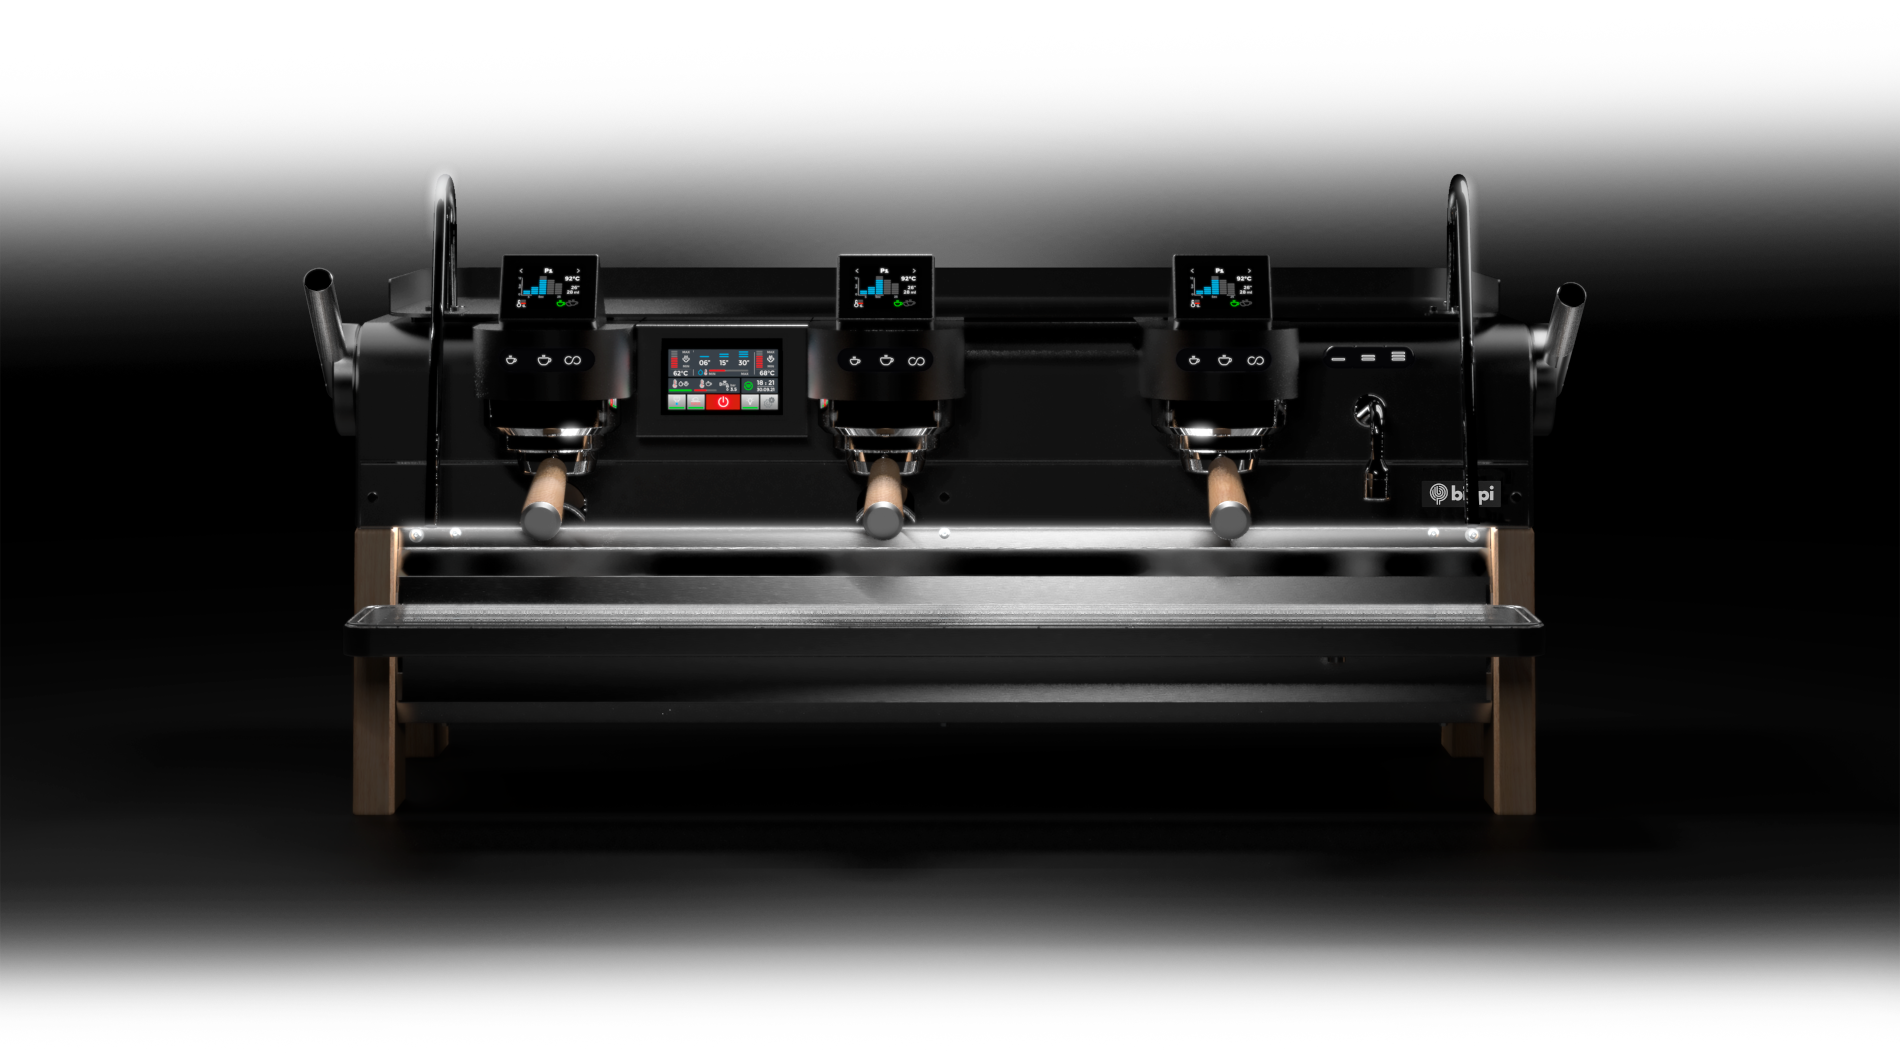
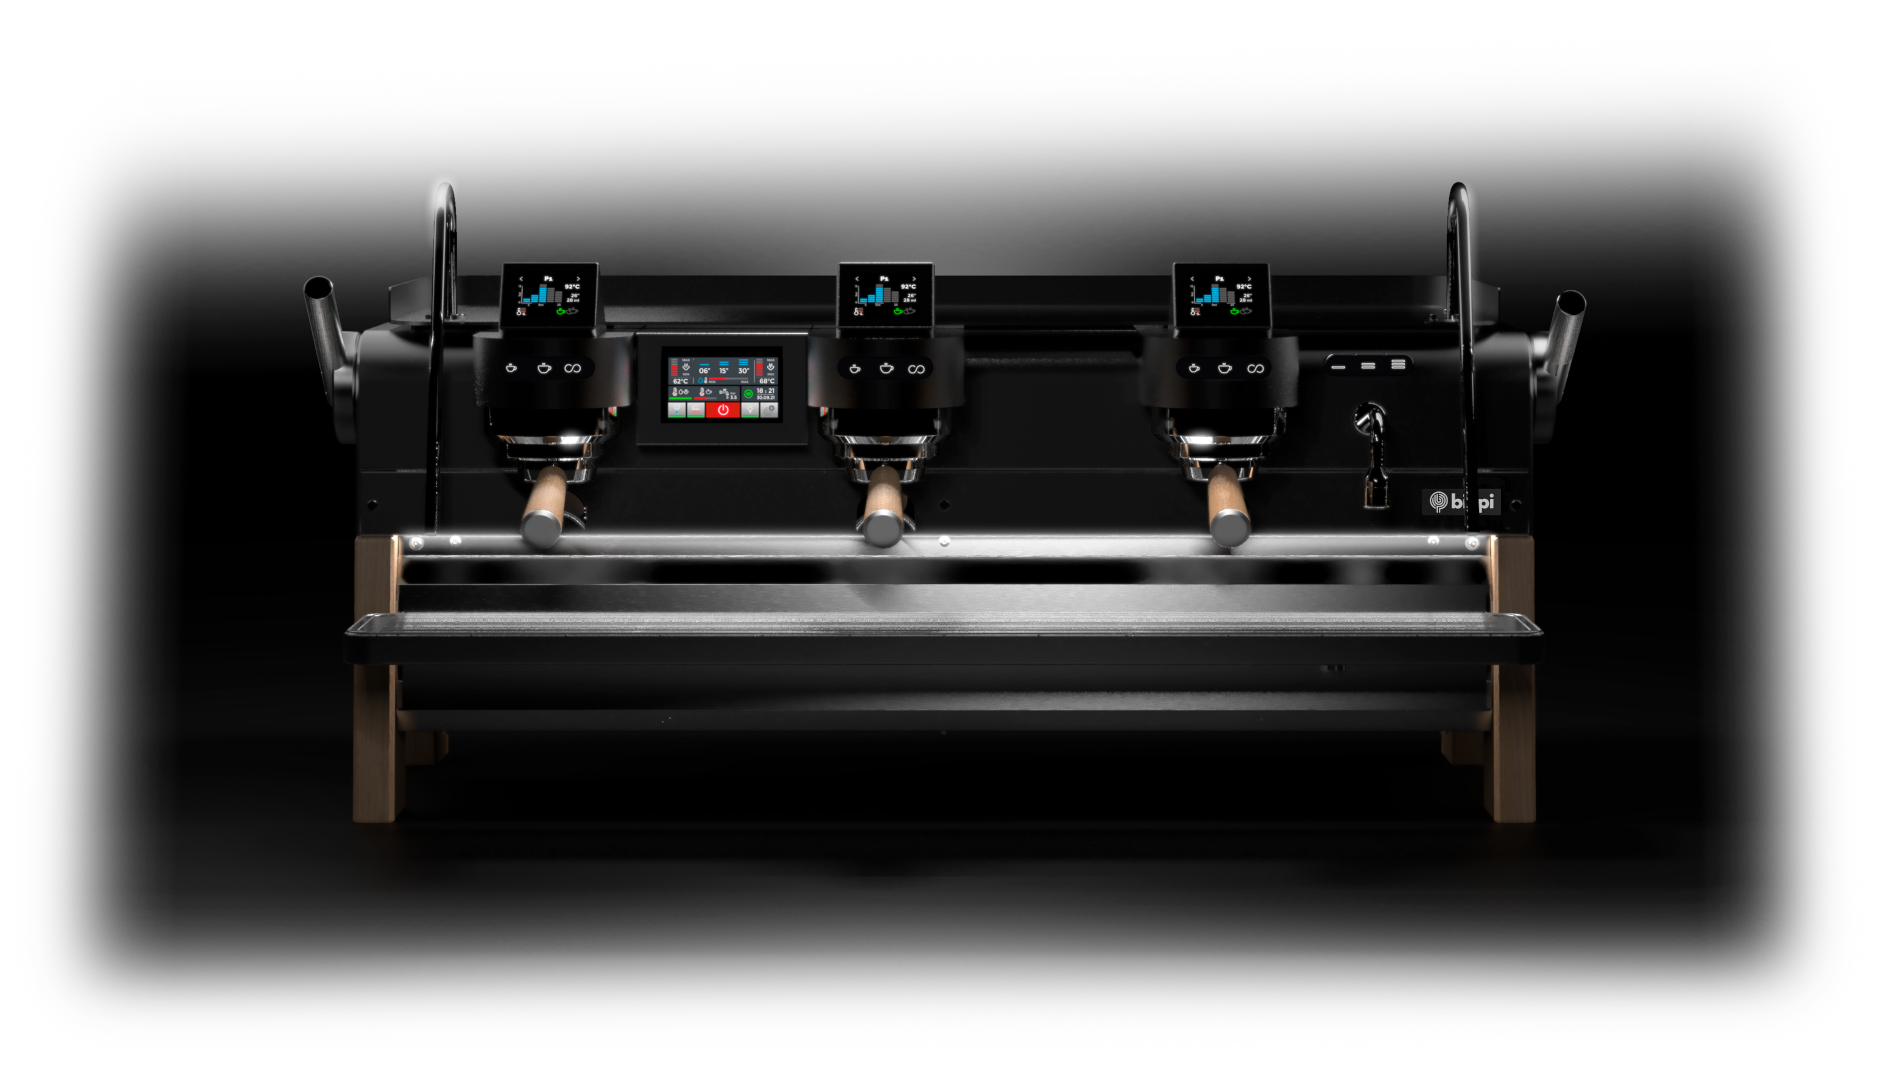
aggiornamento immagini

diff --git a/pages/uptown-2023.vue b/pages/uptown-2023.vue
@@ -7,10 +7,10 @@
             <p ref="presents" class="font-regular text-white pb-5 text-center uppercase tracking-widest text-[16px]">presents</p>
             <div ref="title">
                 <h1 class="pt-10 text-white z-0 relative uppercase tracking-[0.2em] font-extralight text-center text-5xl md:text-[80px] md:font-extralight lg:text-[174px]">uptown</h1>
-                <p class="my-5 tracking-[0.16em] uppercase font-regular text-[24px] text-white text-center  lg:text-[55px]">elegance and tradition</p>
+                <p class="my-5 tracking-[0.16em] uppercase font-regular text-[24px] text-white text-center lg:text-[55px]">elegance and tradition</p>
             </div>
             <div ref="imageUptown" class="z-1 relative flex justify-center md:mt-3">
-                <img src="~/assets/img/uptown.png" alt="Uptown">
+                <img class="w-full" src="~/assets/img/uptown.png" alt="Uptown">
             </div>
         </div>
 
